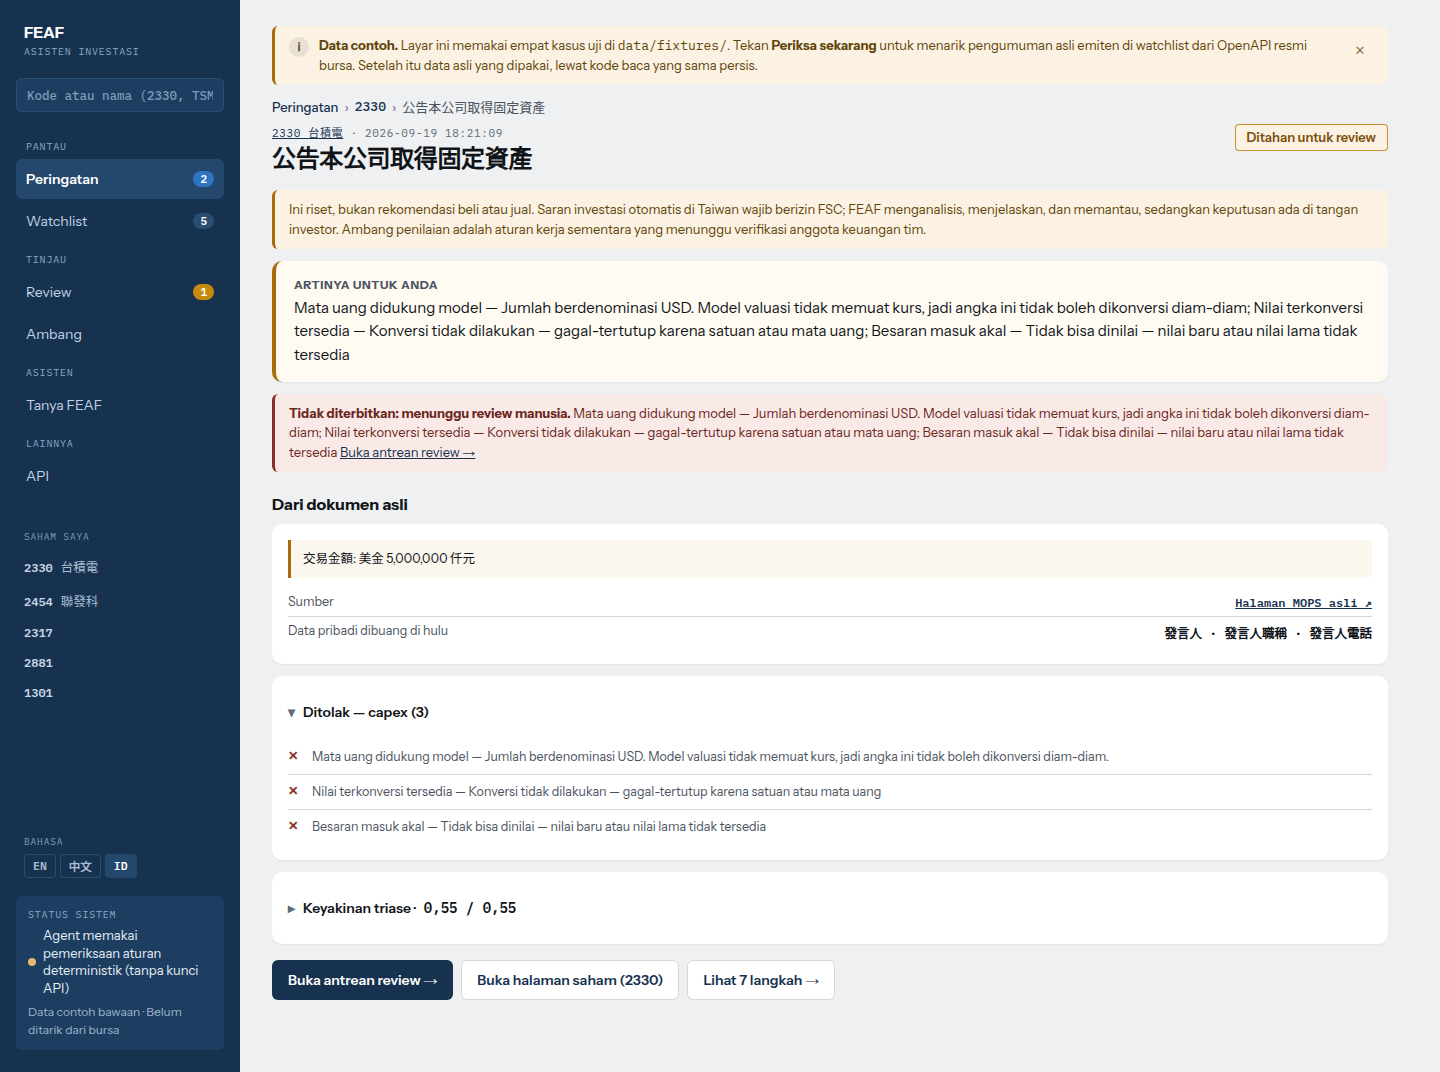
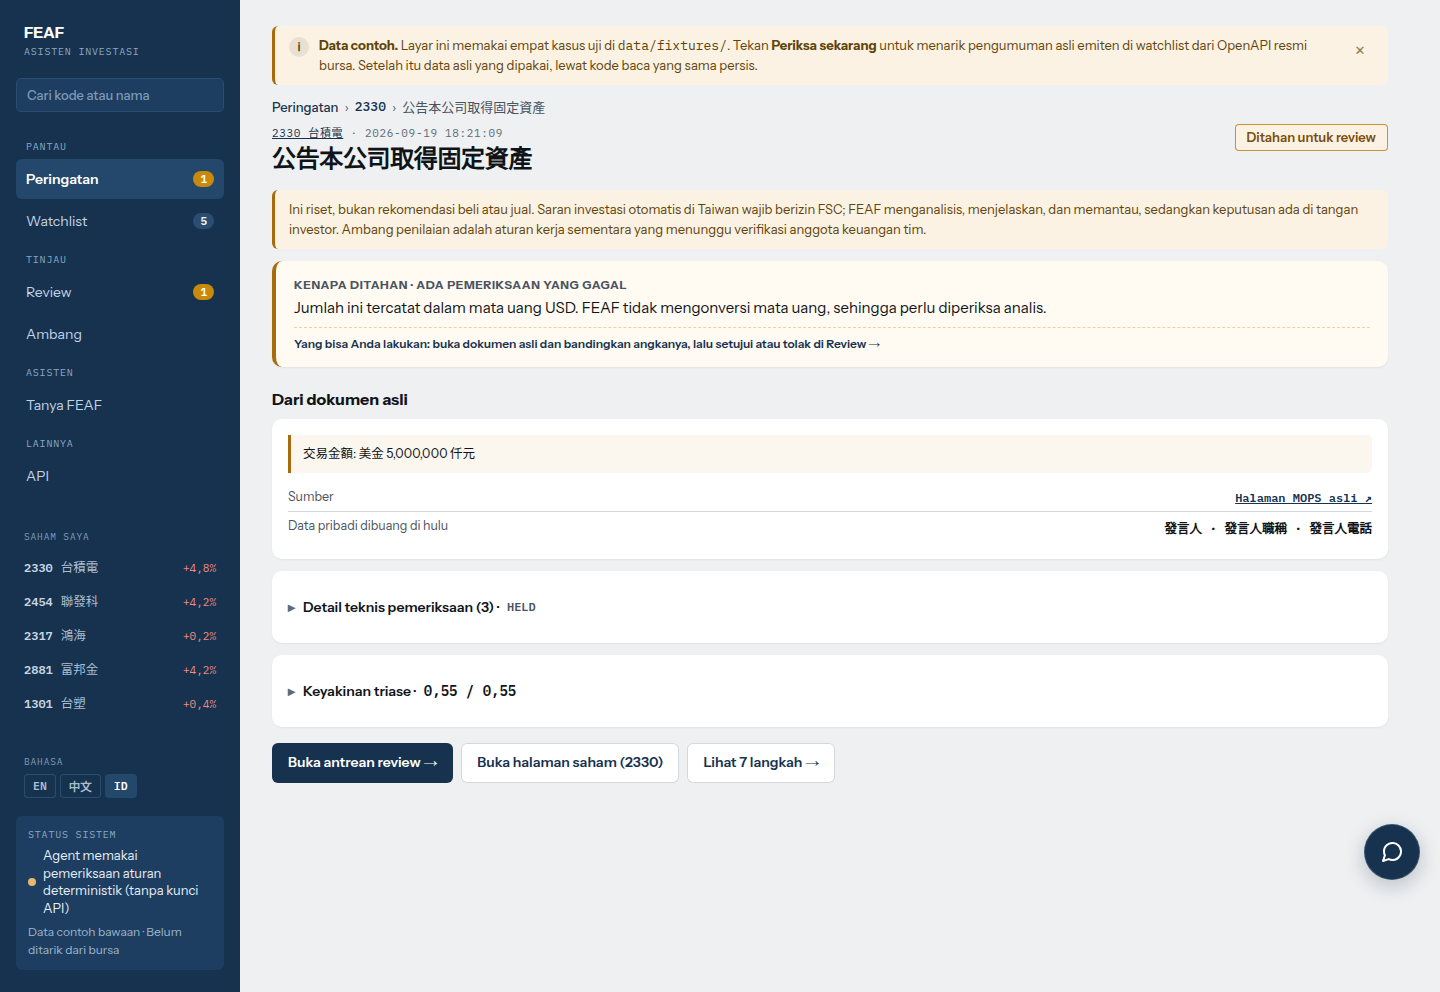
UI: QA-3 alasan ditahan dalam bahasa polos

diff --git a/app/templates/peringatan.html b/app/templates/peringatan.html
@@ -21,14 +21,101 @@
 
 {% include "_penafian.html" %}
 
+{% set ns = namespace(
+  ditolak_list=(h.muatan.ditolak if h.muatan and h.muatan.ditolak else []),
+  urutan_kode=[],
+  grup={},
+  total_cek=0
+) %}
+{% for d in ns.ditolak_list %}
+  {% set inp = (d.temuan.input if d.temuan and d.temuan.input else 'capex') %}
+  {% for s in (d.sebab_i18n or []) %}
+    {% set ns.total_cek = ns.total_cek + 1 %}
+    {% set kode = (s.nama.kode if s.nama is mapping and s.nama.kode else '') %}
+    {% set prm = (s.alasan.param if s.alasan is mapping and s.alasan.param is mapping else {}) %}
+    {% if kode %}
+      {% if kode not in ns.grup %}
+        {% set ns.urutan_kode = ns.urutan_kode + [kode] %}
+        {% set _ = ns.grup.update({kode: {'nama': s.nama, 'alasan': s.alasan, 'input': inp, 'items': []}}) %}
+      {% endif %}
+      {% set _ = ns.grup[kode]['items'].append({'temuan': d.temuan, 'param': prm, 's': s}) %}
+    {% endif %}
+  {% endfor %}
+{% endfor %}
+
 <div class="kotak-artinya {{ h.status }}">
-  <div class="judul-kecil">{{ t('ui.al.artinya_judul') }}</div>
-  <p>{{ tr(h.alasan_i18n, h.alasan) if h.alasan_i18n else h.alasan }}</p>
+  {% if h.status == 'ditahan' %}
+    {% set jenis_tahan = (h.muatan.tahan.jenis if h.muatan and h.muatan.tahan and h.muatan.tahan.jenis else '') %}
+    <div class="judul-kecil">{{ t('rv.sebab') }}{% if jenis_tahan %} · {{ t('rv.jenis.' ~ jenis_tahan) }}{% endif %}</div>
+    {% if ns.urutan_kode %}
+      {% set ada_primer = ('cek.mu' in ns.urutan_kode or 'cek.satuan' in ns.urutan_kode) %}
+      {% for kode in ns.urutan_kode %}
+        {% set g = ns.grup[kode] %}
+        {% set inp_label = t('ui.input.' ~ g.input) %}
+        {% if inp_label.startswith('⟦') %}{% set inp_label = g.input %}{% endif %}
+        {% if kode == 'cek.besaran' %}
+          {% set v_list = [] %}
+          {% set r_list = [] %}
+          {% set l_list = [] %}
+          {% for it in g['items'] %}
+            {% if it.param.nilai is number %}
+              {% set _ = v_list.append(it.param.nilai) %}
+            {% endif %}
+            {% if it.param.rasio is number %}
+              {% set _ = r_list.append(it.param.rasio) %}
+            {% endif %}
+            {% if it.param.lama is number %}
+              {% set _ = l_list.append(it.param.lama) %}
+            {% endif %}
+          {% endfor %}
+          {% if v_list and l_list %}
+            {% set v_min = (v_list | min) %}
+            {% set v_max = (v_list | max) %}
+            {% set r_min = (r_list | min) if r_list else (v_min / l_list[0]) %}
+            {% set r_max = (r_list | max) if r_list else (v_max / l_list[0]) %}
+            {% set lama_str = (l_list[0] | rb) %}
+            {% if r_max > 3.0 %}
+              <p class="kalimat-polos">{{ t('ui.polos.cek.besaran.besar', n=(v_list | length), maks=(v_max | rb), x=(r_max | rb(1)), input=inp_label, lama=lama_str) }}</p>
+            {% else %}
+              <p class="kalimat-polos">{{ t('ui.polos.cek.besaran.kecil', n=(v_list | length), min=(v_min | rb), maks=(v_max | rb), pmin=((r_min * 100) | rb(1)), pmaks=((r_max * 100) | rb(1)), input=inp_label, lama=lama_str) }}</p>
+            {% endif %}
+          {% elif not ada_primer %}
+            <p class="kalimat-polos">{{ t('ui.polos.cek.konversi') }}</p>
+          {% endif %}
+        {% elif kode == 'cek.konversi' %}
+          {% if not ada_primer %}
+            <p class="kalimat-polos">{{ t('ui.polos.cek.konversi') }}</p>
+          {% endif %}
+        {% elif kode == 'cek.mu' %}
+          {% set p0 = g['items'][0].param %}
+          <p class="kalimat-polos">{{ t('ui.polos.cek.mu', mu=(p0.mu or g['items'][0].temuan.mata_uang or '—')) }}</p>
+        {% elif kode == 'cek.satuan' %}
+          {% set p0 = g['items'][0].param %}
+          <p class="kalimat-polos">{{ t('ui.polos.cek.satuan', satuan=(p0.satuan or g['items'][0].temuan.satuan or '—')) }}</p>
+        {% elif kode == 'cek.kutipan' %}
+          <p class="kalimat-polos">{{ t('ui.polos.cek.kutipan') }}</p>
+        {% elif kode == 'cek.angka' %}
+          {% set p0 = g['items'][0].param %}
+          <p class="kalimat-polos">{{ t('ui.polos.cek.angka', angka=(p0.angka or g['items'][0].temuan.nilai_mentah or '—')) }}</p>
+        {% elif kode == 'cek.label' %}
+          {% set p0 = g['items'][0].param %}
+          <p class="kalimat-polos">{{ t('ui.polos.cek.label', label=(p0.label or g['items'][0].temuan.label or '—'), input=inp_label) }}</p>
+        {% else %}
+          <p class="kalimat-polos">{{ tr(g.nama) }}</p>
+        {% endif %}
+      {% endfor %}
+    {% else %}
+      <p class="kalimat-polos">{{ tr(h.alasan_i18n, h.alasan) if h.alasan_i18n else h.alasan }}</p>
+    {% endif %}
+    <div class="tindakan-ditahan">
+      <a href="/review">{{ t('ui.polos.tindakan') }}</a>
+    </div>
+  {% else %}
+    <div class="judul-kecil">{{ t('ui.al.artinya_judul') }}</div>
+    <p>{{ tr(h.alasan_i18n, h.alasan) if h.alasan_i18n else h.alasan }}</p>
+  {% endif %}
 </div>
 
-{% if h.status == 'ditahan' %}
-<div class="pita bahaya"><div class="pita-teks">{{ t('al.ditahan', sebab=((tr(h.alasan_i18n) if h.alasan_i18n else h.alasan) | e)) | safe }}</div></div>
-{% endif %}
 {% if h.muatan and h.muatan.skenario %}
 <div class="pita fixture"><div class="pita-teks">{{ t('sn.skenario') }}</div></div>
 {% endif %}
@@ -106,7 +193,7 @@
     </div>
   {% endfor %}
 
-  {% for d in (h.muatan.ditolak if h.muatan and h.muatan.ditolak else []) %}
+  {% for d in ns.ditolak_list %}
     <div class="kutip" style="margin-bottom:10px;">{{ d.temuan.kutipan }}</div>
   {% endfor %}
 
@@ -153,17 +240,45 @@
   </details>
 {% endfor %}
 
-{% for d in (h.muatan.ditolak if h.muatan and h.muatan.ditolak else []) %}
-  {% set sebab_list = (d.sebab_i18n or d.sebab) %}
-  <details class="kartu lipat" open>
-    <summary>{{ t('al.ditolak_input', input=d.temuan.input) }} ({{ sebab_list | length }})</summary>
+{% if ns.ditolak_list %}
+  <details class="kartu lipat">
+    <summary>
+      {{ t('ui.polos.detail_teknis_cek', n=(ns.total_cek or (ns.ditolak_list | length))) }}
+      {% if h.state %} · <span class="mono kecil redup">{{ h.state | state }}</span>{% endif %}
+    </summary>
     <div style="margin-top:8px;">
-      {% for s in sebab_list %}
-      <div class="cek x"><span class="tanda">✕</span><span class="why">{{ tr(s) }}</span></div>
-      {% endfor %}
+      {% if ns.urutan_kode %}
+        {% for kode in ns.urutan_kode %}
+          {% set g = ns.grup[kode] %}
+          <div class="cek x">
+            <span class="tanda">✕</span>
+            <span class="nama">{{ tr(g.nama) }} <span class="mono kecil redup">({{ g.input }})</span></span>
+            <span class="why">
+              {{ tr(g.alasan) }}
+              {% if (g['items'] | length) > 1 %}
+                <div class="mono kecil redup" style="margin-top:4px;">
+                  {% for it in g['items'] %}
+                    {% if it.param.nilai is number and it.param.lama is number %}
+                      <span>#{{ loop.index }}: {{ it.param.nilai | rb }} vs {{ it.param.lama | rb }} ({{ it.param.rasio | rb(2) }}×)</span>{% if not loop.last %} · {% endif %}
+                    {% elif it.temuan.nilai_mentah %}
+                      <span>#{{ loop.index }}: {{ it.temuan.nilai_mentah }} {{ it.temuan.satuan or '' }}</span>{% if not loop.last %} · {% endif %}
+                    {% endif %}
+                  {% endfor %}
+                </div>
+              {% endif %}
+            </span>
+          </div>
+        {% endfor %}
+      {% else %}
+        {% for d in ns.ditolak_list %}
+          {% for s in (d.sebab_i18n or d.sebab) %}
+            <div class="cek x"><span class="tanda">✕</span><span class="why">{{ tr(s) }}</span></div>
+          {% endfor %}
+        {% endfor %}
+      {% endif %}
     </div>
   </details>
-{% endfor %}
+{% endif %}
 
 {% if h.triase %}
 {% set tri = h.triase %}

diff --git a/tests/test_ui.py b/tests/test_ui.py
@@ -107,6 +107,51 @@ class TestUI(unittest.TestCase):
         r_jejak = self.client.get(f"/jejak/{self.id_terbit}", cookies={"bahasa": "id"})
         self.assertIn("garis-waktu", r_jejak.text)
 
+    def test_alasan_ditahan_bahasa_polos(self) -> None:
+        """QA-3: kasus besaran gagal tidak memuat 'OUTSIDE the 0.20' di luar <details> dan memuat kalimat polos 3 bahasa."""
+        import copy
+        from app import main, store
+        from app.agent import pipeline
+
+        daftar_asli = list(hasil())
+        with open(os.path.join(os.path.dirname(os.path.dirname(os.path.abspath(__file__))), "data", "fixtures", "details.json"), encoding="utf-8") as f:
+            import json
+            d_asli = next(r for r in json.load(f) if r["_fixture"] == "kasus-1-capex-bersih")
+        d_kecil = copy.deepcopy(d_asli)
+        d_kecil["seq_no"] = "99"
+        d_kecil["time"] = "18:05:00"
+        d_kecil["items"][2]["value"] = "新台幣 60,400,000 仟元"
+        h_kecil = pipeline.jalankan(d_kecil, store.muat_valuasi("2330"))
+        self.assertEqual(h_kecil["status"], "ditahan")
+
+        import html
+        with unittest.mock.patch.object(main, "hasil", return_value=daftar_asli + [h_kecil]):
+            for bhs, frasa in (
+                ("en", "One announcement rarely moves a company's yearly figure"),
+                ("zh", "單一公告極少直接代表整年度規模"),
+                ("id", "Satu pengumuman jarang langsung menggantikan angka tahunan perusahaan"),
+            ):
+                r = self.client.get(f"/peringatan/{h_kecil['id']}", cookies={"bahasa": bhs})
+                self.assertEqual(r.status_code, 200)
+                teks = html.unescape(r.text)
+                self.assertNotIn("⟦", teks)
+                self.assertIn(frasa, teks)
+                tanpa_details = re.sub(r"<details\b.*?</details>", "", teks, flags=re.DOTALL)
+                self.assertNotIn("OUTSIDE the 0.20", tanpa_details)
+                self.assertNotIn("DI LUAR pita", tanpa_details)
+                self.assertNotIn("超出 0.2", tanpa_details)
+
+            for bhs, frasa_mu in (
+                ("en", "The amount is in USD. FEAF does not convert currencies"),
+                ("zh", "金額以 USD 計價。FEAF 不自動換算匯率"),
+                ("id", "Jumlah ini tercatat dalam mata uang USD. FEAF tidak mengonversi mata uang"),
+            ):
+                r_mu = self.client.get("/peringatan/2330-2026-09-19-4", cookies={"bahasa": bhs})
+                self.assertEqual(r_mu.status_code, 200)
+                teks_mu = html.unescape(r_mu.text)
+                self.assertNotIn("⟦", teks_mu)
+                self.assertIn(frasa_mu, teks_mu)
+
 
 if __name__ == "__main__":
     unittest.main()
